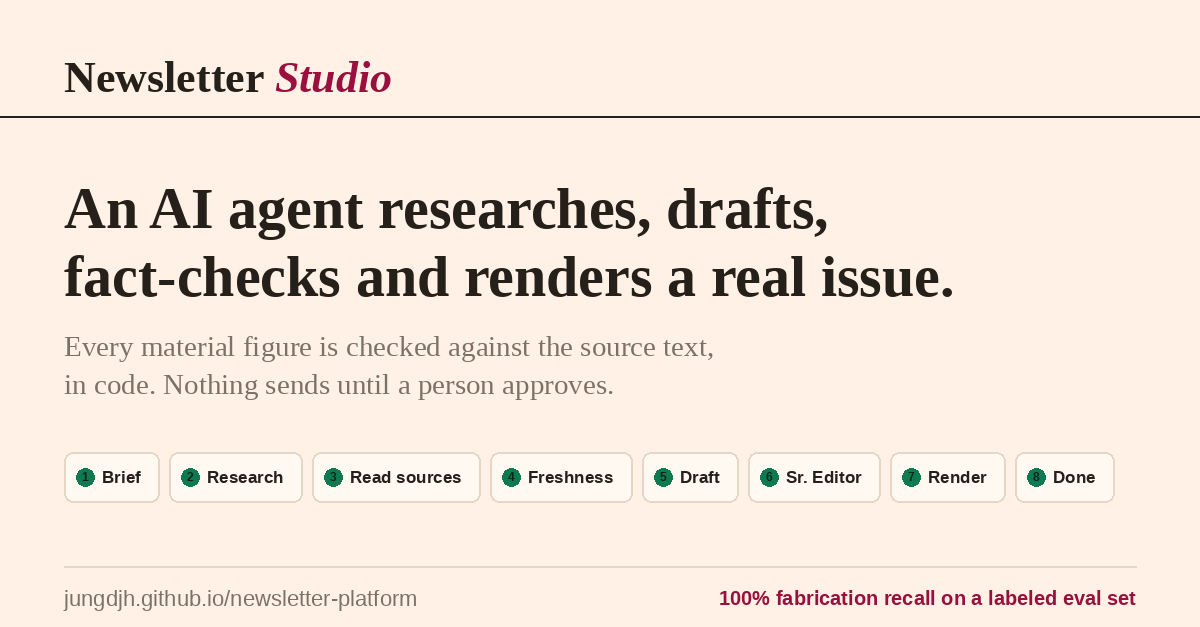
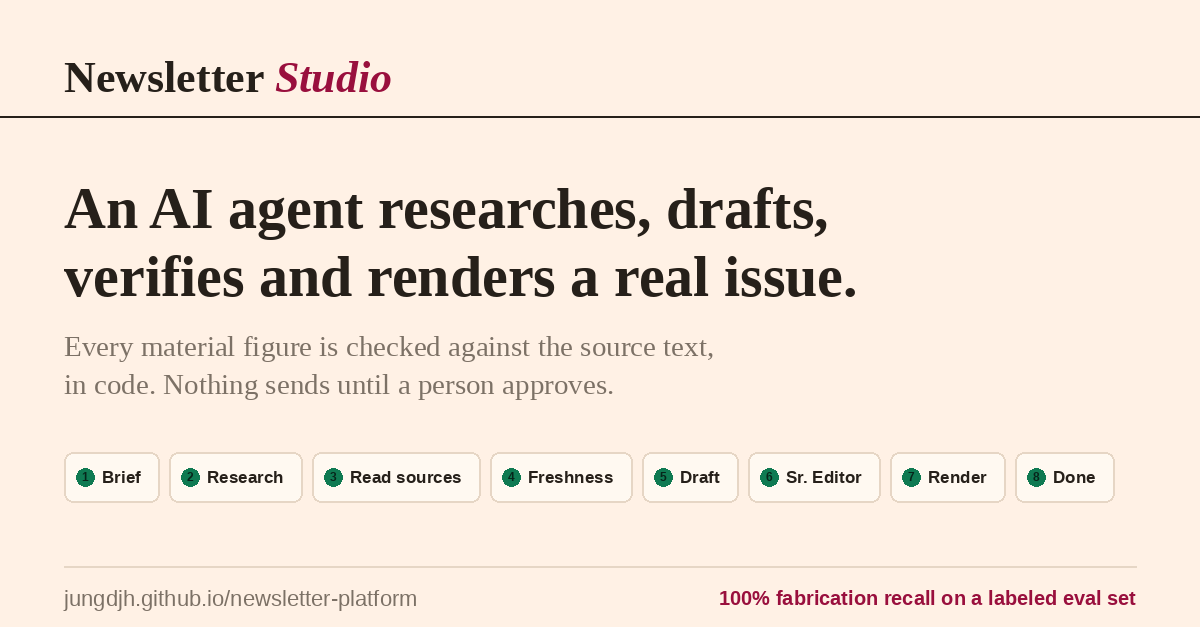
Replace fact-checking language with what the system actually does

Changed region(s): [[0.0308, 0.3939, 0.8017, 0.4848]]

diff --git a/docs/index.html b/docs/index.html
@@ -1,20 +1,20 @@
 <!doctype html><html><head><meta charset="utf-8">
 <meta name="viewport" content="width=device-width,initial-scale=1,viewport-fit=cover">
 <title>Newsletter Studio — live demo</title>
-<meta name="description" content="A multi-agent AI newsletter engine that researches, drafts, fact-checks and renders a real issue — and waits for a human before anything sends.">
+<meta name="description" content="A multi-agent AI newsletter engine that researches, drafts, verifies and renders a real issue — and waits for a human before anything sends.">
 <link rel="canonical" href="https://jungdjh.github.io/newsletter-platform/">
 <meta property="og:type" content="website">
 <meta property="og:site_name" content="Newsletter Studio">
 <meta property="og:url" content="https://jungdjh.github.io/newsletter-platform/">
 <meta property="og:title" content="Newsletter Studio — live demo">
-<meta property="og:description" content="A multi-agent AI newsletter engine that researches, drafts, fact-checks and renders a real issue — and waits for a human before anything sends.">
+<meta property="og:description" content="A multi-agent AI newsletter engine that researches, drafts, verifies and renders a real issue — and waits for a human before anything sends.">
 <meta property="og:image" content="https://jungdjh.github.io/newsletter-platform/social-card.png">
 <meta property="og:image:width" content="1200">
 <meta property="og:image:height" content="627">
 <meta property="og:image:alt" content="Newsletter Studio — the eight-stage pipeline: brief, research, read sources, freshness, draft, senior editor, render, done.">
 <meta name="twitter:card" content="summary_large_image">
 <meta name="twitter:title" content="Newsletter Studio — live demo">
-<meta name="twitter:description" content="A multi-agent AI newsletter engine that fact-checks itself before a human approves the send.">
+<meta name="twitter:description" content="A multi-agent AI newsletter engine that verifies its own claims against the source before a human approves the send.">
 <meta name="twitter:image" content="https://jungdjh.github.io/newsletter-platform/social-card.png">
 <meta name="theme-color" content="#FFF1E5">
 <meta name="apple-mobile-web-app-capable" content="yes">

diff --git a/README.md b/README.md
@@ -2,7 +2,7 @@
 
 ▶ **[Live demo](https://jungdjh.github.io/newsletter-platform/)** — watch the pipeline run and read a real issue it produced. Installable as a PWA.
 
-**I don't trust a single AI's output — I verify around the model.** This system is that principle in production: it researches the day's news, drafts a curated issue, fact-checks its own claims against the source text, routes the draft through a human review console, and emails it — on a schedule, unattended.
+**I don't trust a single AI's output — I verify around the model.** This system is that principle in production: it researches the day's news, drafts a curated issue, verifies its own claims against the source text, routes the draft through a human review console, and emails it — on a schedule, unattended.
 
 ---
 
@@ -12,7 +12,7 @@ Every run, an agent:
 
 1. **Researches** the day's stories across a set of beats (web search + fetch), biased to primary sources.
 2. **Drafts** a ranked issue — a lead "Big Signal" story plus supporting stories, each with a summary, two strategic implications, and a scan list of secondary items.
-3. **Fact-checks itself** — every claim in a summary or implication must be quote-anchored to a verbatim excerpt from the source article; an advisory "Senior Editor" pass flags anything unsupported.
+3. **Verifies itself against its sources** — every material figure and external fact in a summary or implication must trace to a verbatim excerpt the agent copied from the article. A deterministic guard checks the figures offline, a fresh re-fetch of the live URL confirms the excerpt is really on the page, and an advisory "Senior Editor" pass flags what is unsupported.
 4. **Hands off to a human** — a side-by-side review console (draft vs. original article) where the reviewer edits, drops, or approves before anything sends.
 5. **Sends** the approved issue via a gated morning job.
 
@@ -22,13 +22,21 @@ The human is the final editor; the agent never sends unreviewed.
 
 **Agentic research + self-verification.** The draft isn't a single LLM call — it's a tool-using loop (search → fetch → draft → audit) with a structured submission schema. Claims are verified against copied source text, which is what stops the "confident fabrication" failure mode of naive summarizers.
 
+**What "verified" means here, precisely.** Worth stating, because most systems described as AI fact-checkers are doing something narrower than the phrase implies. Three things run, and they are different from each other:
+
+1. *Source-quality gating*, at retrieval. The search tool is constrained to a per-audience allowlist of outlets, with low-signal aggregators blocked outright. Nothing downstream can verify a source that was never allowed in.
+2. *Faithfulness checking*, offline. Every currency amount, percentage and ratio in the copy must appear in the excerpt the agent quoted from the article. This is deterministic code, not a model. A figure with no excerpt behind it is flagged, and a story that prints figures but saved no excerpt is flagged too, so omitting the evidence cannot dodge the check.
+3. *Evidence authentication*, against the live page. The two checks above both trust the saved excerpt, which leaves one hole: an agent that fabricates a claim and a matching excerpt to support it. So the pipeline re-fetches the source URL and confirms the excerpt is really in the article. Scan items carry no excerpt, so their figures are checked against the live page directly.
+
+What it does **not** do is adjudicate whether the source is telling the truth. It never seeks a second outlet to corroborate a claim. The honest label is grounded generation with source-quality gating and live source verification. Fact-checking is a bigger claim than that, and this is not it.
+
 **Human-in-the-loop review console.** A no-framework web app renders the draft against the original article. The reviewer can edit any field inline, drop a story, or reorder — and what they approve is exactly what sends. Dropping a top story **backfills from a pre-drafted "bench"** of reserve stories (already reviewed as cards), so a rejected story is replaced without a regenerate.
 
 **Reliability, treated as a first-class concern.** The send is **at-most-once** (the approval is consumed before the send, so a crash can't double-send). Issue numbers can't be reused or regressed. Scraped URLs are scheme-sanitized (no `javascript:`/`data:` links reach the email). Nightly failures alert instead of failing silently.
 
 **Content-quality controls.** A Top-N floor guarantees a full lead section (or loudly flags a thin news day rather than shipping a one-story issue). Implications are constrained to reason from the product's *actual* competitive frame. Reserve stories are de-duplicated against the lead set.
 
-**Tested and adversarially reviewed.** ~535 automated tests across the system (90 of them in this public mirror) cover the render, the review/approve logic, the reliability guards, and the content rules. The self-verification is measured, not asserted — on my labeled eval set (`make evals-llm` — 19 fixtures: 11 planted fabrications + 8 faithful items, run 3× each), the most recent run holds **100% recall (33/33)** with **1 false positive in 24 (~4%)**. The free label-blind baseline heuristic catches only **55% (6/11)** — it compares numbers only, so it is blind by construction to invented quotes, invented entities and unsupported superlatives. That's the bar the model-based check has to clear, and does. Changes are run through an adversarial "try to break it" review before merge — which has caught real defects (e.g., a null-field crash on a specific render path) pre-ship.
+**Tested and adversarially reviewed.** ~535 automated tests across the system (90 of them in this public mirror) cover the render, the review/approve logic, the reliability guards, and the content rules. The self-verification is measured, not asserted — on my labeled eval set (`make evals-llm` — 19 fixtures: 11 planted fabrications + 8 faithful items, run 3× each), recall is **100% (33/33)** and has not moved across passes. The false-positive count is **0 to 1 out of 24 (0–4%)** depending on the run: three consecutive passes scored 0, then 1, then 0. That range is the honest number. One run of an LLM judge does not resolve a false-positive rate to better than about one item, so the repo keeps a dated trend log rather than quoting whichever run finished last. The free label-blind baseline heuristic catches only **55% (6/11)** — it compares numbers only, so it is blind by construction to invented quotes, invented entities and unsupported superlatives. That's the bar the model-based check has to clear, and does. Changes are run through an adversarial "try to break it" review before merge — which has caught real defects (e.g., a null-field crash on a specific render path) pre-ship.
 
 ## Architecture (one engine, two faces)
 
